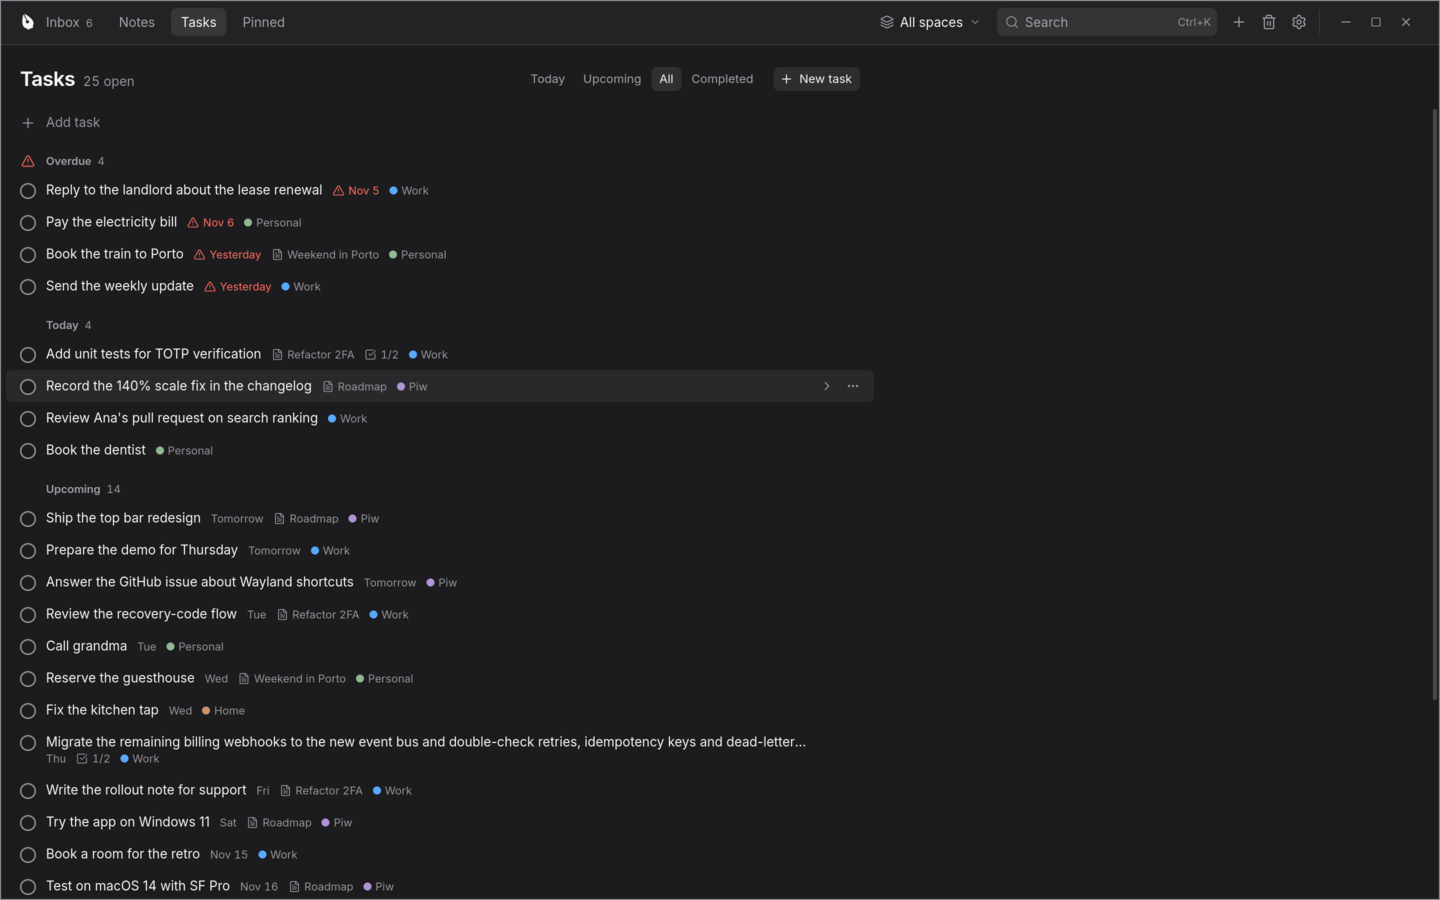
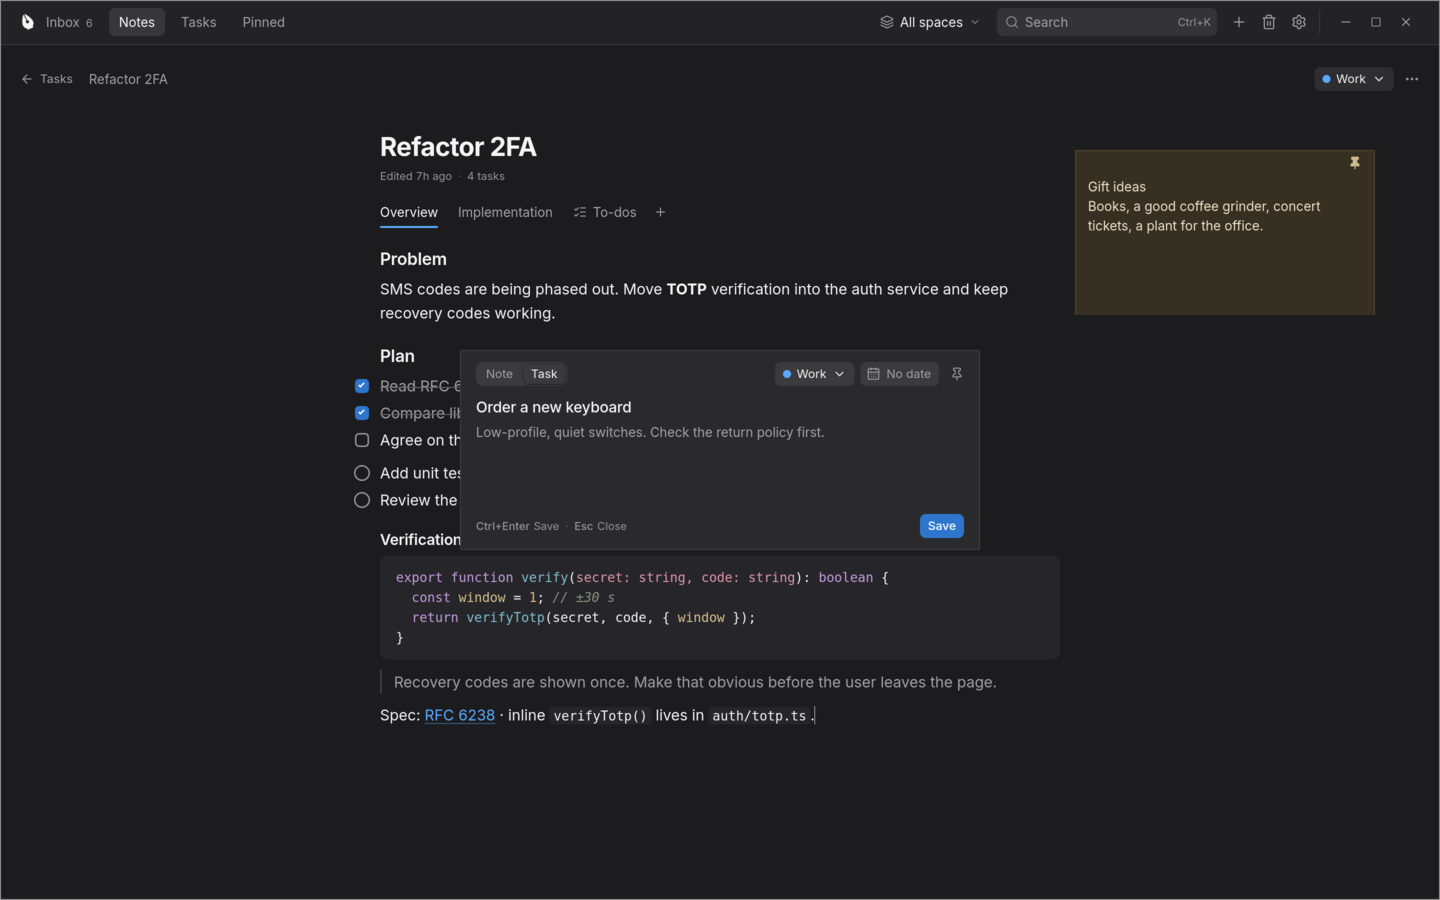
feat: update screenshot in README.md

diff --git a/README.md b/README.md
@@ -20,7 +20,7 @@ React, TypeScript, and Rust, and keeps everything in one SQLite file on your com
 <picture>
   <source media="(prefers-color-scheme: dark)" srcset="docs/piw-screenshot-dark.png">
   <source media="(prefers-color-scheme: light)" srcset="docs/piw-screenshot-light.png">
-  <img src="docs/piw-screenshot-light.png" alt="Piw's Tasks view with overdue, today and upcoming tasks in a demo workspace">
+  <img src="docs/piw-screenshot-light.png" alt="A note open in Piw, with the Quick Capture popup adding a task and a sticky note on top">
 </picture>
 
 View screenshots in [light mode](docs/piw-screenshot-light.png) or [dark mode](docs/piw-screenshot-dark.png).
